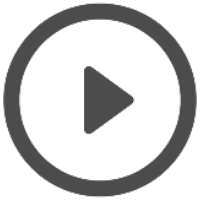
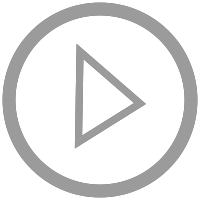
added youtube player

diff --git a/js/app.js b/js/app.js
@@ -27,7 +27,9 @@ const main=
         const movYearTitle=document.querySelector("#movYearTitle");
         const movScore=document.querySelector("#movScore");
         const poster = document.querySelector("#playTrailer");
-
+        const playTrailer = document.querySelector("#playTrailer");
+        const youtubePopOver = document.querySelector("#youtubePopOver");
+        const close = document.querySelector("#youtubePopOver button");
         //------------- VARIABLES -------------------
 
         if(sessionStorage.getItem("movieID")==null)
@@ -78,6 +80,26 @@ const main=
             })
             .catch()
         }
+
+        playTrailer.addEventListener("click",()=>{
+            youtubePopOver.style.display="block";
+           const ytplayer=document.querySelector("#ytplayer");
+           //&origin=http://example.com
+           fetch(`https://api.themoviedb.org/3/movie/${mov_id}/videos?api_key=d25d36b5b143baf855bd638c506138a7&language=en-US`)
+           .then((response)=>{
+               response.json()
+               .then((data)=>{
+                ytplayer.setAttribute("src",`https://www.youtube.com/embed/${data.results[0].key}?autoplay=1`);
+               })
+               .catch()
+           })
+           .catch()
+
+        })
+
+        close.addEventListener("click",()=>{
+            youtubePopOver.style.display="none";
+        })
     },
     Loader()
     {

diff --git a/css/detail.css b/css/detail.css
@@ -102,3 +102,37 @@ nav ul li:hover {
 #playTrailer:hover{
     cursor: pointer;
 }
+#playicon{
+    margin-top:80px;
+    width:100px;
+    height:100px;
+    background-image: url("../images/PLAY.png");
+    background-size: cover;
+    margin: 80px auto;
+}
+#playicon:hover{
+    margin-top:80px;
+    width:100px;
+    height: 100px;
+    background-image: url("../images/PLAYh.png");
+    cursor: pointer;
+}
+#youtubePopOver{
+    display: none;
+    position: absolute;
+    z-index: 300;
+    width: 100%;
+    height: 100%;
+    margin: 0px auto;
+    background-color: rgba(16, 22, 27, 0.425);
+    margin-left: -20px;
+    padding: 0px;
+}
+#ytplayer{
+    display: grid;
+    grid-template-rows: 1fr;
+    justify-content: center;
+    align-content: center;
+    position: relative;
+    margin: 0px auto;
+}

diff --git a/html/detail.html b/html/detail.html
@@ -22,6 +22,12 @@
             
         </nav>
     </header>
+    <div id="youtubePopOver">
+        <button>close&nbsp;&nbsp;X&nbsp;&nbsp;</button>
+        <iframe id="ytplayer" type="text/html" width="640" height="360"
+            src=""
+            frameborder="0"></iframe>
+    </div>
     <main id="mainPage">
         <div id="detail">
             <h1 id="movTitle">Title</h1>
@@ -40,7 +46,9 @@
             <div>Play Trailer</div>
             
             <div id="playTrailer" class="animate__animated animate__bounce animate__delay-2s">
+                <div id="playicon">
 
+                </div>
             </div>
         </div>
     </main>
